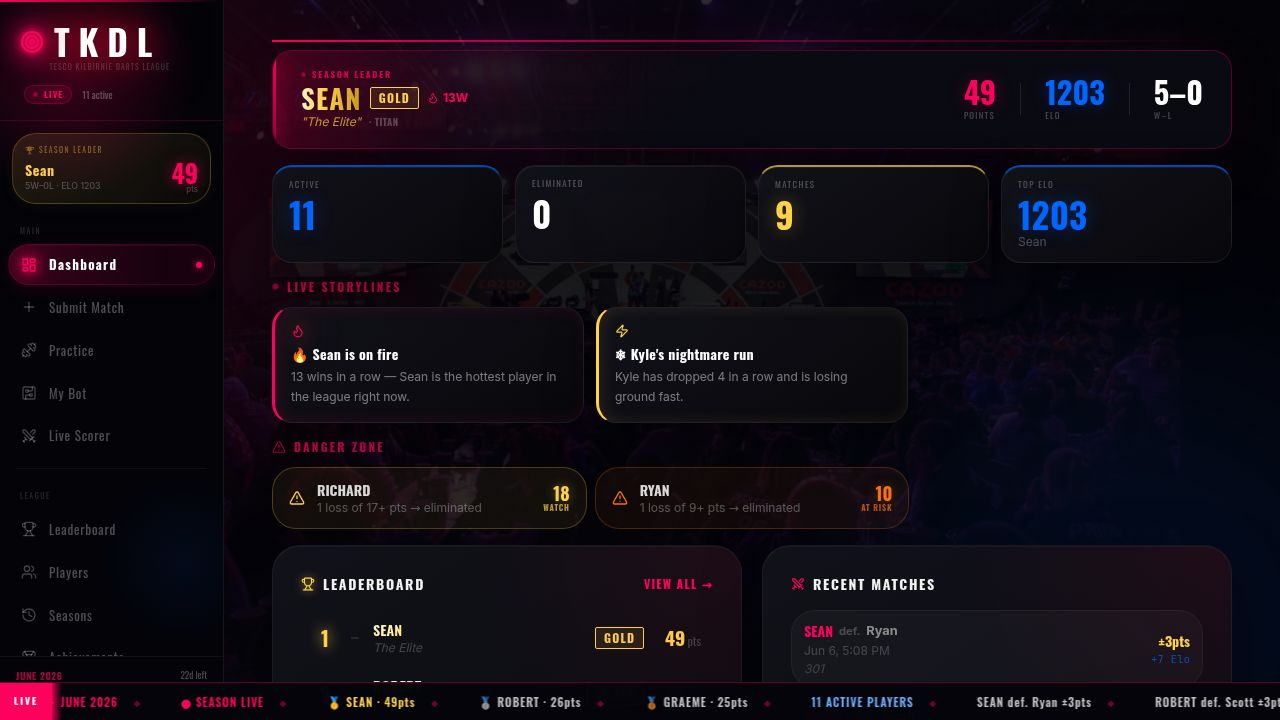
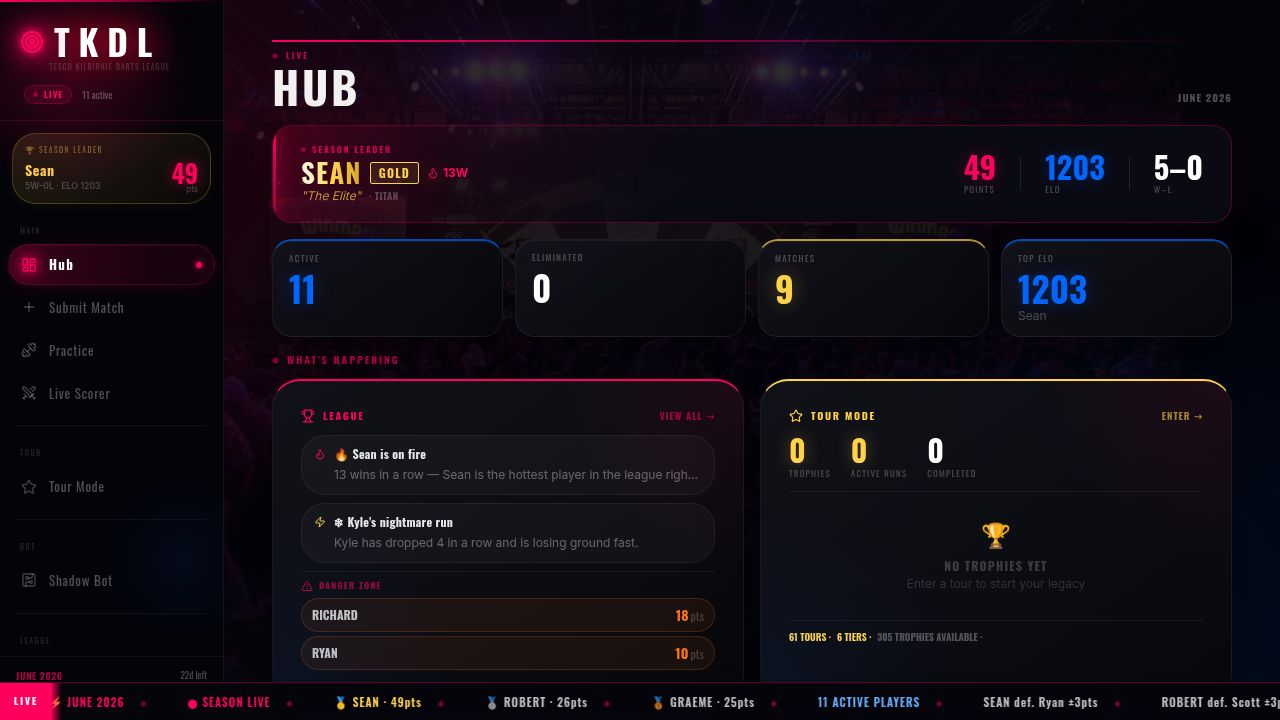
fix: player profile achievements now includes shadow bot achievements + sweep covers bot criteria
Bug 1 — Player profile Achievements section missing new bot achievements:
- shadow-achievements were lazy-loaded only when shadowbot tab was visited, never merged into main section
- Removed lazy-load pattern; shadow-achievements now fetched eagerly on player load alongside other data
- Normalized shadow achievement shape (unlocked→isUnlocked, currentValue→currentProgress, hidden:false, category:"Shadow Bot")
- Combined achProgress + normalizedBotAchs into allAchievements for counts, filtering and display
- unlockedCount and closeCount now reflect all 37 bot achievements + league achievements

Bug 2 — Achievement sweep missing new criteria types (TOTAL_180S, CHECKOUT_HITS, TOTAL_SCORE):
- retroactiveSweep() only swept league achievements (player_achievements table)
- Added checkAndAwardShadowBotAchievements(pid) call per player in sweep step 4
- Bot grants counted and included in totalGranted response
- Fixed dead endpoint: admin.tsx sweep-achievements call pointed at non-existent route, corrected to achievement-sweep

diff --git a/artifacts/tkdl/src/pages/player-detail.tsx b/artifacts/tkdl/src/pages/player-detail.tsx
@@ -265,7 +265,6 @@ export default function PlayerDetail() {
   const [gameSessionsLoading, setGameSessionsLoading] = useState<Record<string, boolean>>({});
   const [gamerscore, setGamerscore] = useState<{ total: number; league: number; shadowBot: number; tourTrophies: number; tourAchievements: number } | null>(null);
   const [shadowAchs, setShadowAchs] = useState<any[]>([]);
-  const [shadowAchsLoaded, setShadowAchsLoaded] = useState(false);
   const [tourTrophies, setTourTrophies] = useState<any[]>([]);
 
   const toggleGame = (key: string) => {
@@ -302,12 +301,11 @@ export default function PlayerDetail() {
   }, [playerId]);
 
   useEffect(() => {
-    if (profileTab !== "shadowbot" || shadowAchsLoaded || !playerId) return;
-    setShadowAchsLoaded(true);
+    if (!playerId) return;
     fetch(`/api/players/${playerId}/shadow-achievements`)
       .then(r => r.json()).then(d => setShadowAchs(Array.isArray(d) ? d : []))
       .catch(() => {});
-  }, [profileTab, shadowAchsLoaded, playerId]);
+  }, [playerId]);
 
   if (isLoading) {
     return (
@@ -328,10 +326,20 @@ export default function PlayerDetail() {
 
   const totalGames = player.careerGamesPlayed ?? 0;
   const winRate = totalGames > 0 ? Math.round(((player.careerWins ?? 0) / totalGames) * 100) : 0;
-  const unlockedCount = achProgress.filter(a => a.isUnlocked).length;
-  const closeCount = achProgress.filter(a => !a.isUnlocked && (a.progressPct ?? 0) >= 50).length;
+  const normalizedBotAchs = shadowAchs.map((a: any) => ({
+    ...a,
+    id: `bot_${a.key}`,
+    isUnlocked: a.unlocked,
+    currentProgress: a.currentValue,
+    hidden: false,
+    category: "Shadow Bot",
+  }));
+  const allAchievements = [...achProgress, ...normalizedBotAchs];
 
-  const filteredAch = achProgress.filter(a => {
+  const unlockedCount = allAchievements.filter(a => a.isUnlocked).length;
+  const closeCount = allAchievements.filter(a => !a.isUnlocked && (a.progressPct ?? 0) >= 50).length;
+
+  const filteredAch = allAchievements.filter(a => {
     if (achFilter === "unlocked") return a.isUnlocked;
     if (achFilter === "locked") return !a.isUnlocked && !a.hidden;
     if (achFilter === "close") return !a.isUnlocked && (a.progressPct ?? 0) >= 50;

diff --git a/artifacts/api-server/src/lib/achievements.ts b/artifacts/api-server/src/lib/achievements.ts
@@ -4,6 +4,7 @@ import { eq, and, count, sql, or } from "drizzle-orm";
 import { logger } from "./logger";
 import { PRACTICE_ACHIEVEMENT_DEFINITIONS, checkPracticeAchievements } from "./practice-achievements";
 import { FORMAT_AND_MEME_ACHIEVEMENT_DEFINITIONS } from "./format-and-meme-achievements";
+import { checkAndAwardShadowBotAchievements } from "./shadow-bot-achievements";
 
 export type AchievementDef = {
   key: string;
@@ -322,6 +323,12 @@ export async function retroactiveSweep(): Promise<{ granted: number; playersChec
 
     const after  = (await db.select({ id: playerAchievementsTable.id }).from(playerAchievementsTable).where(eq(playerAchievementsTable.playerId, pid))).length;
     totalGranted += after - before;
+
+    // ── 4. Shadow bot achievements (practice-based) ──────────────────────────
+    const botBefore = (await db.execute(sql`SELECT id FROM shadow_bot_achievements WHERE player_id = ${pid}`)).rows.length;
+    await checkAndAwardShadowBotAchievements(pid);
+    const botAfter  = (await db.execute(sql`SELECT id FROM shadow_bot_achievements WHERE player_id = ${pid}`)).rows.length;
+    totalGranted += botAfter - botBefore;
   }
 
   return { granted: totalGranted, playersChecked: players.length };

diff --git a/artifacts/tkdl/src/pages/admin.tsx b/artifacts/tkdl/src/pages/admin.tsx
@@ -841,7 +841,7 @@ export default function Admin() {
   const handleSweepAchievements = async () => {
     setIsSweeping(true);
     try {
-      const res = await fetch("/api/admin/sweep-achievements", { method: "POST" });
+      const res = await fetch("/api/admin/achievement-sweep", { method: "POST" });
       const data = await res.json();
       toast({ title: "Achievement Sweep Complete", description: `${data.totalGranted} achievements granted across ${data.playersChecked} players.` });
     } catch (e: any) {